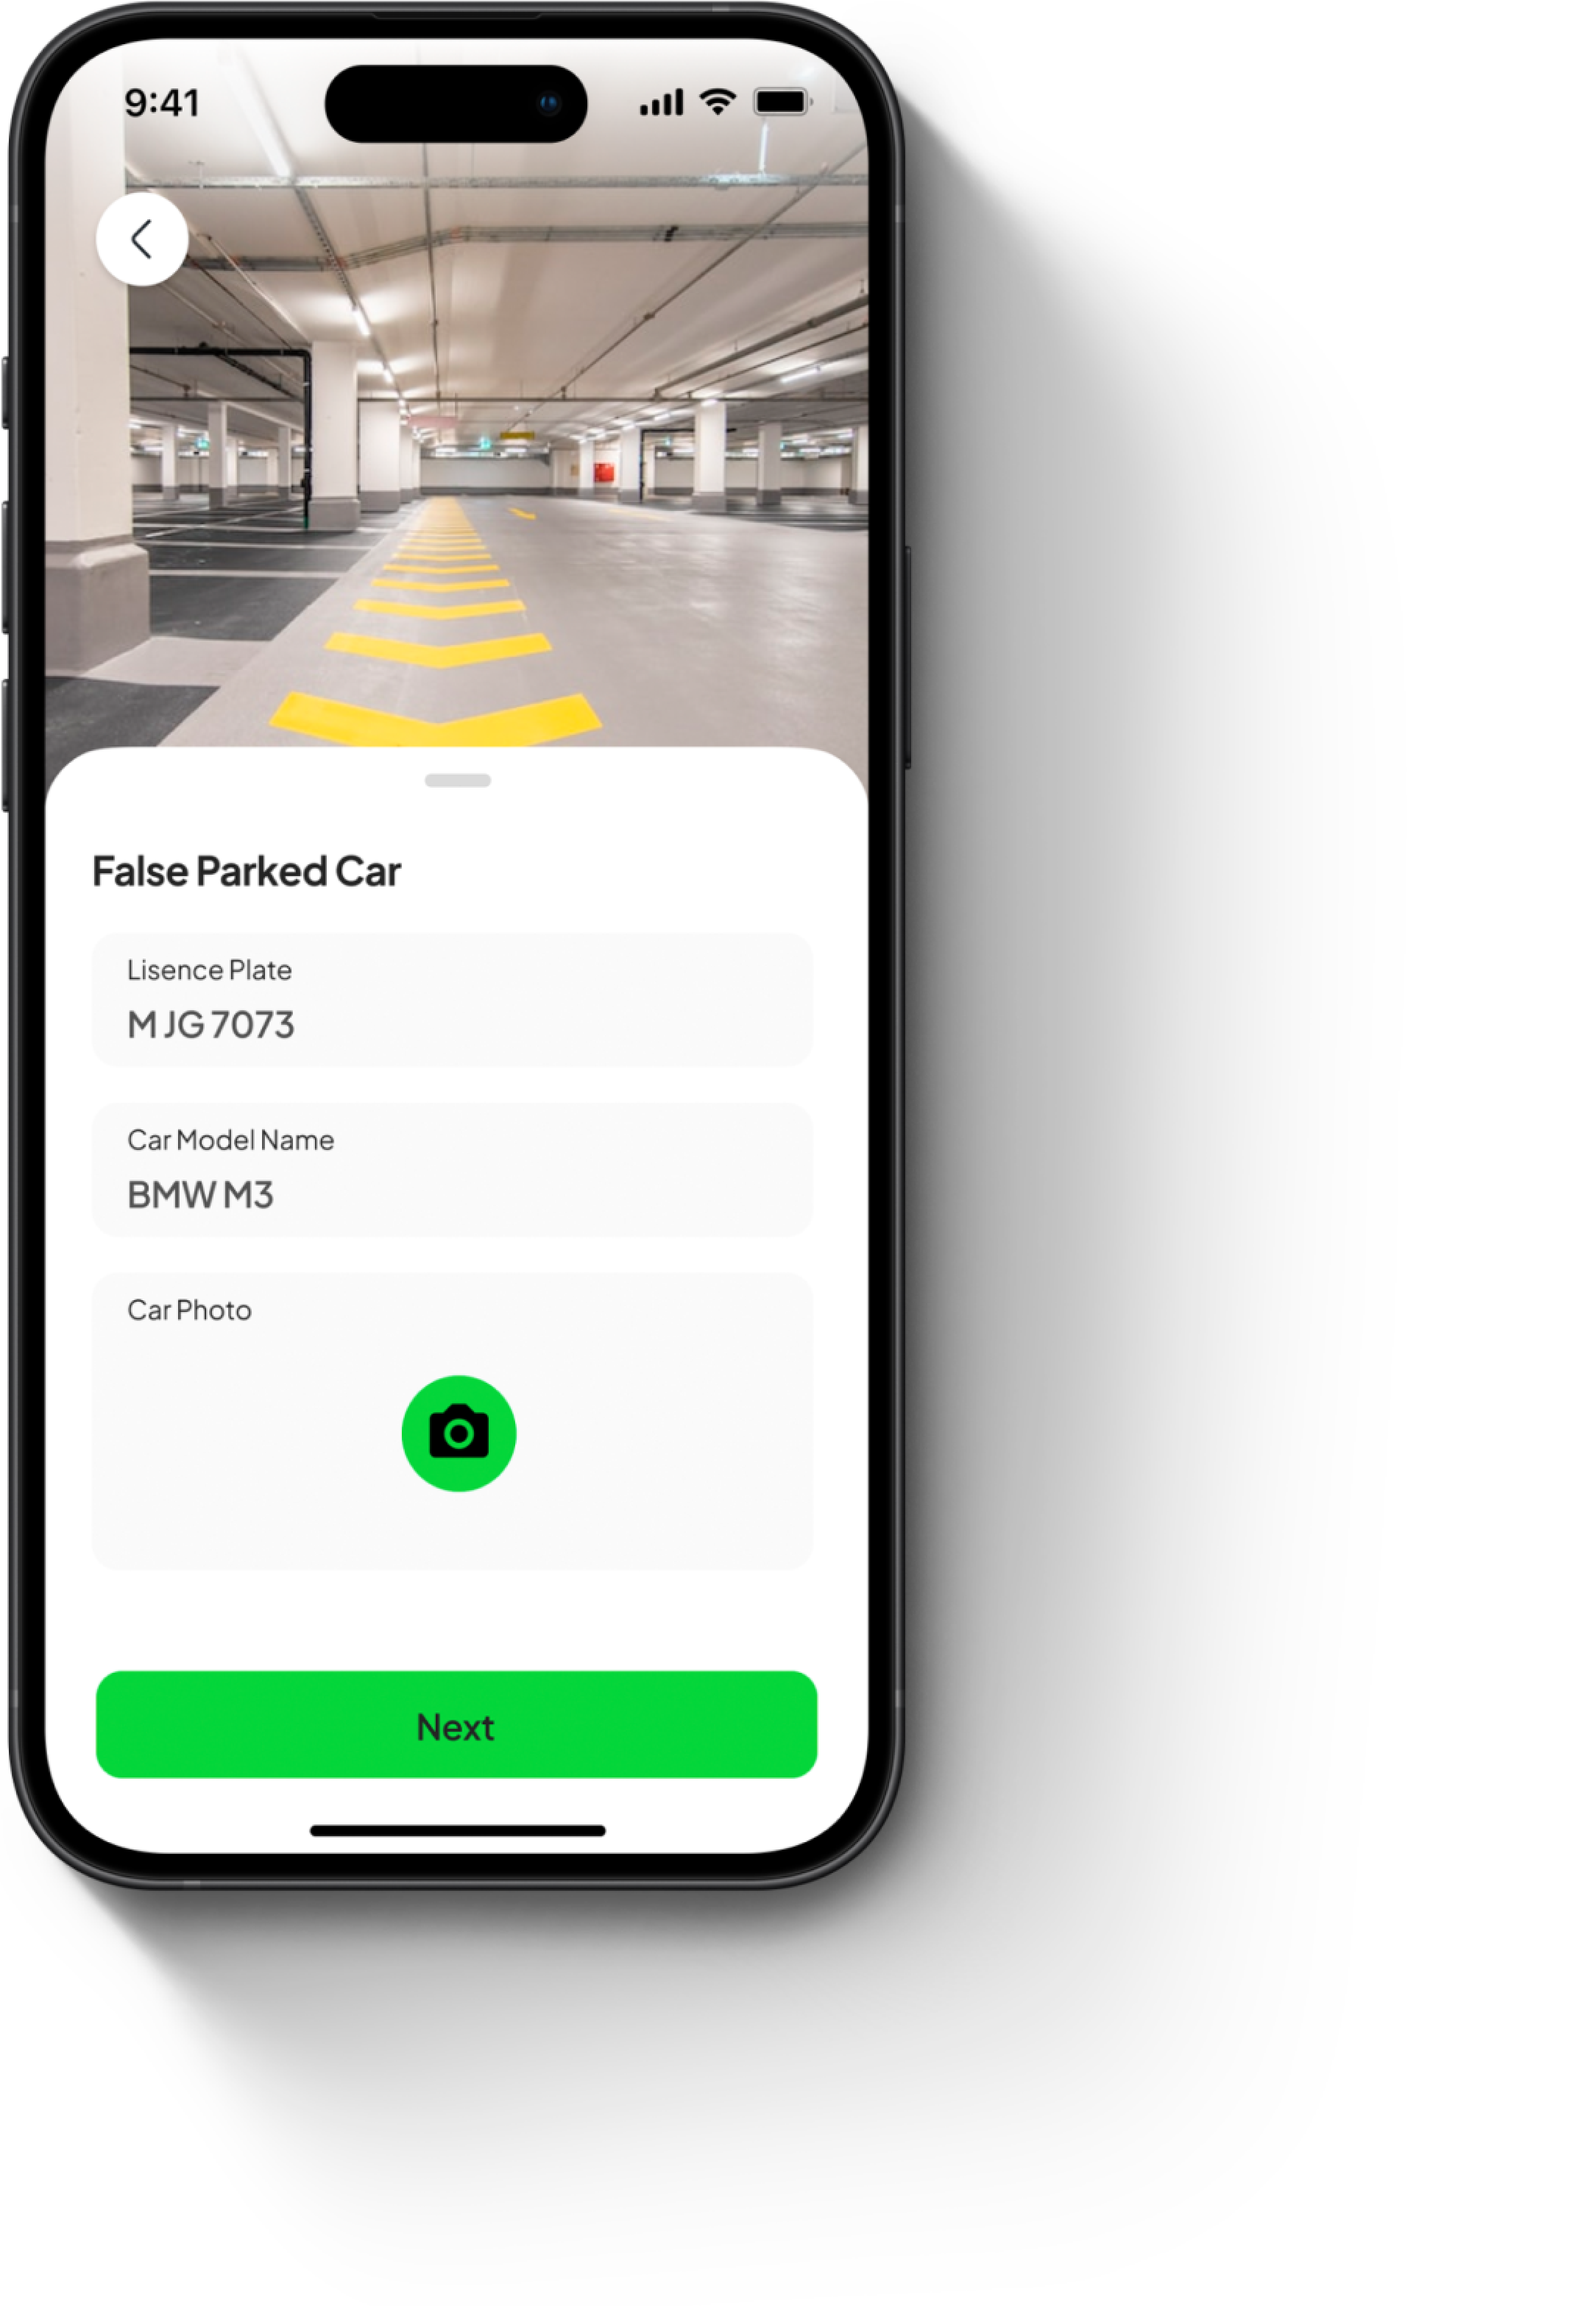
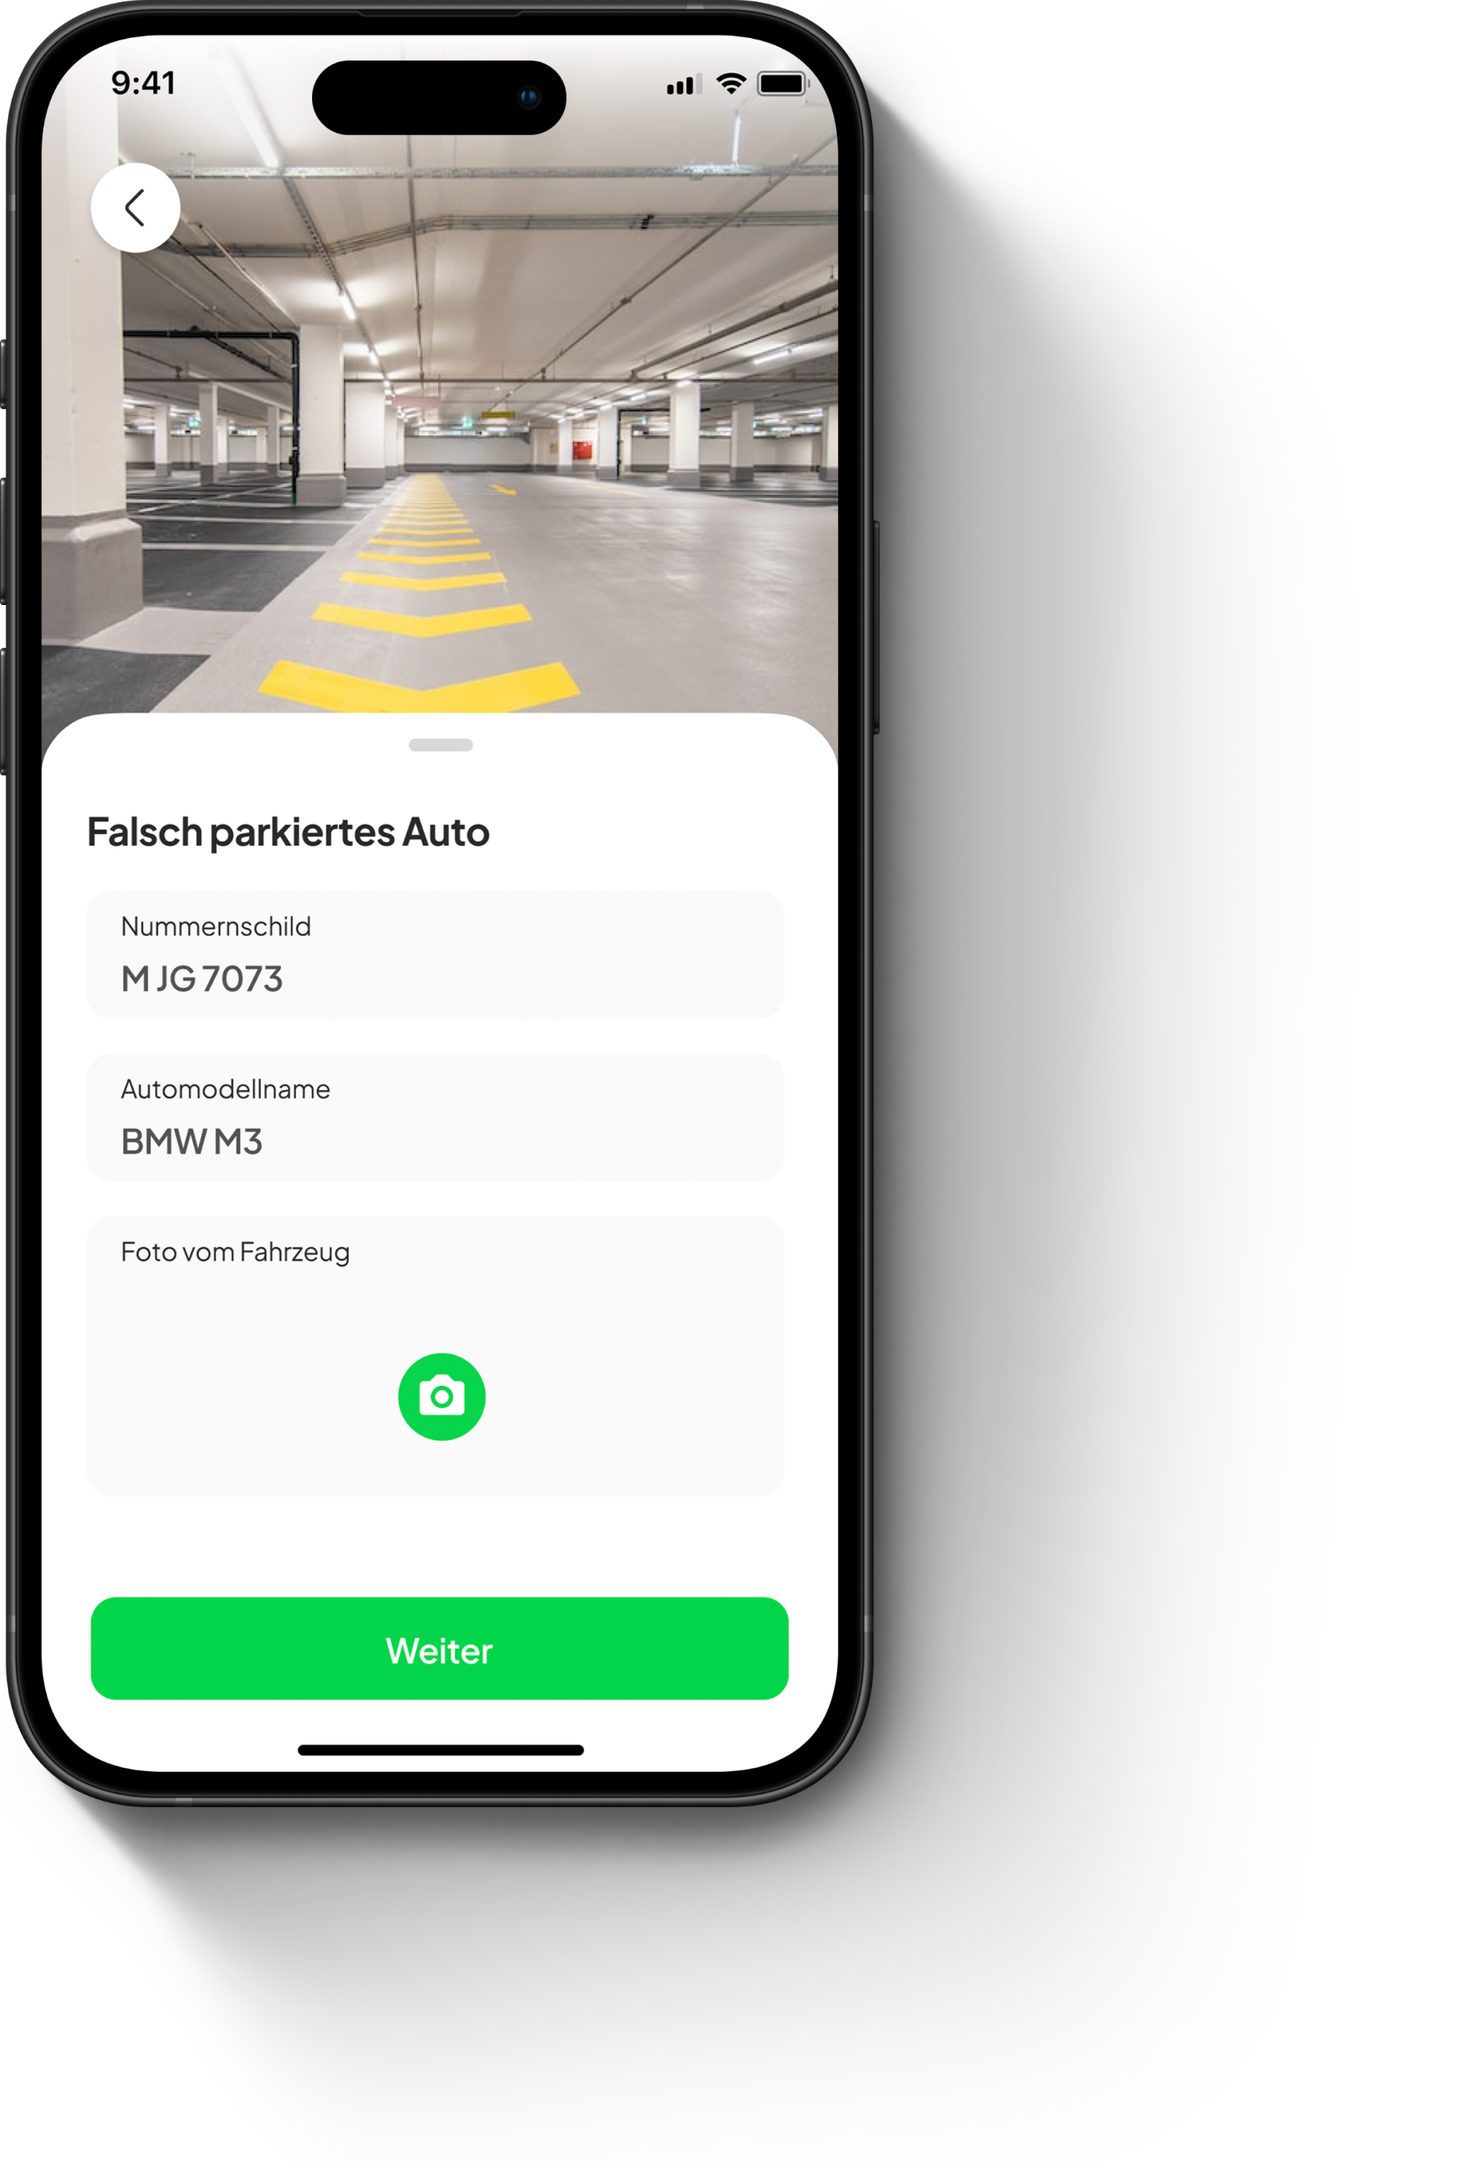
Updated img to DE

diff --git a/src/components/uber/uber.jsx b/src/components/uber/uber.jsx
@@ -25,7 +25,7 @@ export const Uber = () => {
                 <br />
                 <span>UBER-Prinzip.</span>
               </span>
-              <span className='text-xl max-md:text-lg max-sm:mt-5 max-sm:max-w-[150px] max-sm:text-base sm:mt-12'>
+              <span className='text-xl max-md:text-lg max-sm:mt-5 max-sm:max-w-[150px] max-sm:text-lg sm:mt-12'>
                 Für ein rasches Eintreffen eines Abschleppwagens.
               </span>
             </div>

diff --git a/src/app/[lang]/location/bern/components/ourServices.jsx b/src/app/[lang]/location/bern/components/ourServices.jsx
@@ -8,7 +8,7 @@ import { ArrowRight } from '@/components/icons/arrowRight';
 import { Cross } from '@/components/icons/cross';
 import { ArrowLeft } from '@/components/icons/arrowLeft';
 import BigCard from '@/images/towing-service/service-big-img.png';
-import SmallCard from '@/images/towing-service/service-small-img.png';
+import SmallCard from '@/images/towing-service/service-small-image.png';
 
 const RenderButtons = ({ setScreen, isTwoScreen }) => {
   return (

diff --git a/src/app/[lang]/location/luzern/components/ourServices.jsx b/src/app/[lang]/location/luzern/components/ourServices.jsx
@@ -8,7 +8,7 @@ import { ArrowRight } from '@/components/icons/arrowRight';
 import { Cross } from '@/components/icons/cross';
 import { ArrowLeft } from '@/components/icons/arrowLeft';
 import BigCard from '@/images/towing-service/service-big-img.png';
-import SmallCard from '@/images/towing-service/service-small-img.png';
+import SmallCard from '@/images/towing-service/service-small-image.png';
 
 const RenderButtons = ({ setScreen, isTwoScreen }) => {
   return (

diff --git a/src/app/[lang]/location/st-gallen/components/ourServices.jsx b/src/app/[lang]/location/st-gallen/components/ourServices.jsx
@@ -8,7 +8,7 @@ import { ArrowRight } from '@/components/icons/arrowRight';
 import { Cross } from '@/components/icons/cross';
 import { ArrowLeft } from '@/components/icons/arrowLeft';
 import BigCard from '@/images/towing-service/service-big-img.png';
-import SmallCard from '@/images/towing-service/service-small-img.png';
+import SmallCard from '@/images/towing-service/service-small-image.png';
 
 const RenderButtons = ({ setScreen, isTwoScreen }) => {
   return (

diff --git a/src/app/[lang]/location/winterthur/components/ourServices.jsx b/src/app/[lang]/location/winterthur/components/ourServices.jsx
@@ -8,7 +8,7 @@ import { ArrowRight } from '@/components/icons/arrowRight';
 import { Cross } from '@/components/icons/cross';
 import { ArrowLeft } from '@/components/icons/arrowLeft';
 import BigCard from '@/images/towing-service/service-big-img.png';
-import SmallCard from '@/images/towing-service/service-small-img.png';
+import SmallCard from '@/images/towing-service/service-small-image.png';
 
 const RenderButtons = ({ setScreen, isTwoScreen }) => {
   return (

diff --git a/src/app/[lang]/location/zurich/components/ourServices.jsx b/src/app/[lang]/location/zurich/components/ourServices.jsx
@@ -8,7 +8,7 @@ import { ArrowRight } from '@/components/icons/arrowRight';
 import { Cross } from '@/components/icons/cross';
 import { ArrowLeft } from '@/components/icons/arrowLeft';
 import BigCard from '@/images/towing-service/service-big-img.png';
-import SmallCard from '@/images/towing-service/service-small-img.png';
+import SmallCard from '@/images/towing-service/service-small-image.png';
 
 const RenderButtons = ({ setScreen, isTwoScreen }) => {
   return (

diff --git a/src/app/[lang]/location/zurich/components/heading.jsx b/src/app/[lang]/location/zurich/components/heading.jsx
@@ -27,7 +27,7 @@ const Heading = ({ title, subtitle, icons }) => {
             />
           ))}
         </div>
-        <div className='flex-1'>
+        <div className='max-sm:w-[70%] sm:flex-1'>
           <div
             className={cl(
               'text-2xl max-md:text-sm',
